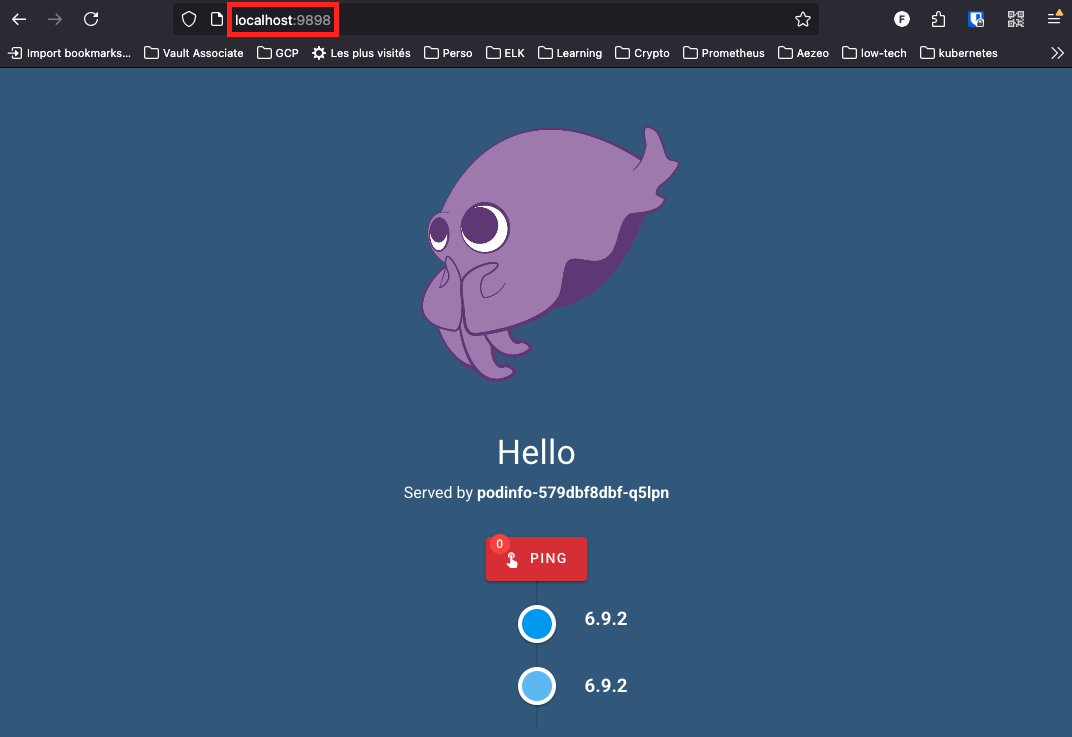
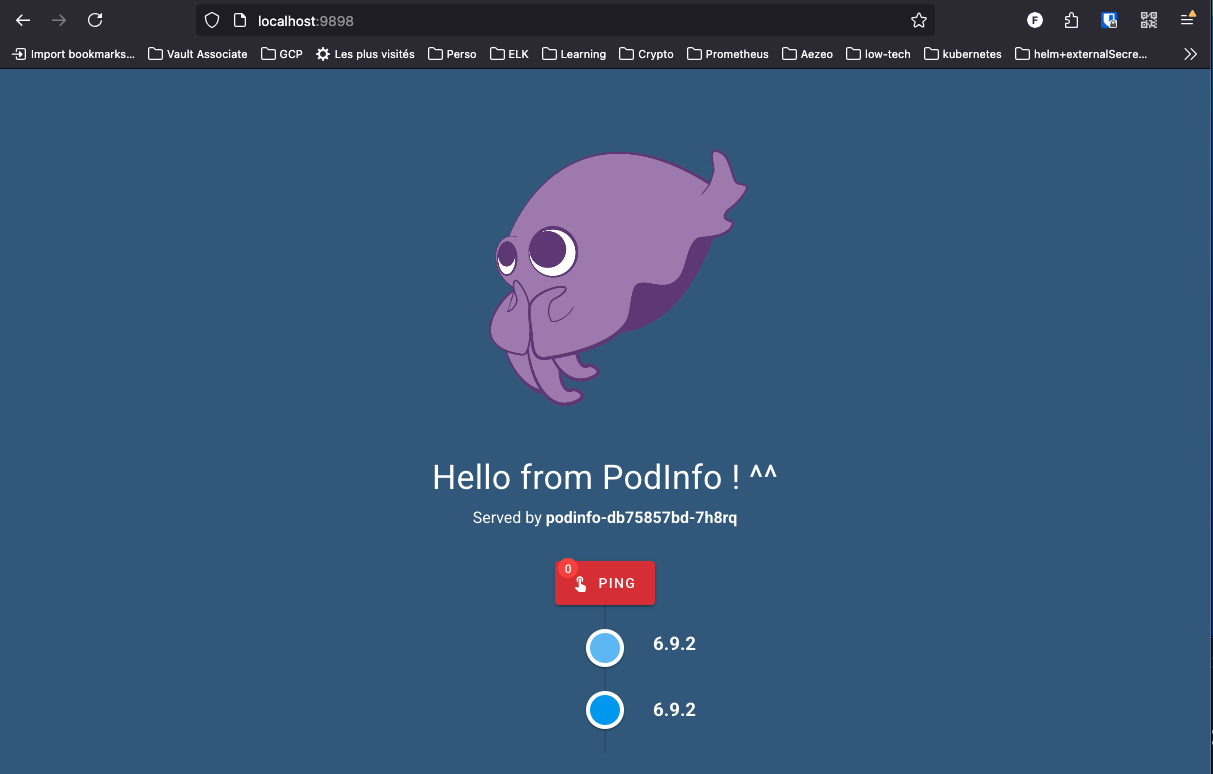
New updates.

diff --git a/docs/FluxCD/FluxCD_demonstration_par_l_exemple.md b/docs/FluxCD/FluxCD_demonstration_par_l_exemple.md
@@ -1937,11 +1937,13 @@ Pour connaître les valeurs par défaut de l'application :
     [https://artifacthub.io/packages/helm/podinfo/podinfo?modal=values](https://artifacthub.io/packages/helm/podinfo/podinfo?modal=values)
 
 
-Par exemple, si nous souhaitons afficher __'Hello'__ comme message d'accueil, nous devrons surcharger le paramètre 'ui.message' comme suit :
+Par exemple, souhaitons apporter un peu plus de résilience à l'application en exécutant 2 ReplicaSets plutôt qu'un. Nous souhaitons également gérer finement les ressources de l'application, et changer le message d'accueil de la UI.
 
 !!! Note
     Nous écrirons les '*values*' que nous souhaitons surcharger aux '*default values*' dans une *ConfigMap* Kubernetes.
 
+!!! Doc
+    [https://github.com/stefanprodan/podinfo?tab=readme-ov-file#continuous-delivery](https://github.com/stefanprodan/podinfo?tab=readme-ov-file#continuous-delivery)
 
 === "code"
     ```sh
@@ -1951,8 +1953,15 @@ Par exemple, si nous souhaitons afficher __'Hello'__ comme message d'accueil, no
 
     # Création d'un fichier temporaire 'values.yaml' contenant les paramètres à surcharger :
     cat << EOF > values.yaml
+    replicaCount: 2
+    resources:
+      limits:
+        memory: 256Mi
+      requests:
+        cpu: 100m
+        memory: 64Mi
     ui:
-      message: "Hello"
+      message: "Hello from PodInfo ! ^^"  
     EOF
 
     # Création de la ConfigMap à partir du fichier 'values.yaml' :
@@ -1966,18 +1975,20 @@ Par exemple, si nous souhaitons afficher __'Hello'__ comme message d'accueil, no
     /bin/rm values.yaml
     ```
 
-=== "ConfigMap 'podinfo-values'"
+=== "podinfo-values.yaml"
     ```sh
     apiVersion: v1
     data:
-      values.yaml: |
+      values.yaml: |+
+        replicaCount: 2
+        resources:
+          limits:
+            memory: 256Mi
+          requests:
+            cpu: 100m
+            memory: 64Mi
         ui:
-          message: "Hello"
-    kind: ConfigMap
-    metadata:
-      creationTimestamp: null
-      name: podinfo-values
-      namespace: podinfo
+          message: "Hello from PodInfo ! ^^"
     ```
 
 Définissons maintenant la HelmRelease :
@@ -1997,7 +2008,7 @@ Définissons maintenant la HelmRelease :
       --source=HelmRepository/podinfo.podinfo \
       --chart=podinfo \
       --values-from=ConfigMap/podinfo-values \
-      --interval=1m0s \
+      --interval=10m \
       --export > podinfo/podinfo.helmrelease.yaml
 
     git add .
@@ -2024,7 +2035,7 @@ Définissons maintenant la HelmRelease :
             kind: HelmRepository
             name: podinfo
             namespace: podinfo
-      interval: 1m0s
+      interval: 10m
       valuesFrom:
       - kind: ConfigMap
         name: podinfo-values
@@ -2071,7 +2082,7 @@ Utilisons la redirection de ports pour accéder à l'application avec un navigat
     ```
 
 ![podinfo](./images/podinfo.png)
-Nous voyons bien notre message d'accueil personnalisé : 'Hello'.
+Nous voyons bien notre message d'accueil personnalisé : '**Hello PodInfo! ^^**'.
 
 
 
@@ -2079,7 +2090,7 @@ Nous voyons bien notre message d'accueil personnalisé : 'Hello'.
 
 ## Notifications Discord
 
-Nous avons configuré FluxCD pour gérer automatiquement la mise à jour nos applications _*'foo'*_ et _*'bar'*_ dont les manifests sont hébergés dans un dépôt GitHub, ainsi que la mise à joàur de l'application packagée '*podinfo*' hébergée sur un dépôt Helm externe.
+Nous avons configuré FluxCD pour gérer automatiquement la mise à jour de nos applications _*'foo'*_ et _*'bar'*_ dont les manifests sont hébergés dans un dépôt GitHub, ainsi que la mise à jour de l'application packagée '*podinfo*' hébergée sur un dépôt Helm externe.
 
 Nous aimerions maintenant être alertés lorsqu'un changement affecte nos applications. Plutôt qu'une messagerie mail classique, nous privilégions une messagerie instantanée. Notre choix s'est porté sur la plateforme **'Discord'** car elle permet de configurer des _*'webhooks'*_ sur des _*'rooms'*_ sans pour autant devoir payer un abonnement, comme ce serait le cas avec **Slack**.
 
@@ -2093,14 +2104,14 @@ https://discord.com/api/download?platform=osx
 ```
 
 
-### Création d'un _*'serveur'*_ et d'un _*'channel'*_ pour chaque application
+### Création d'un _*'serveur'*_ et d'une _*'room'*_ pour chaque application
 
 
 #### Création d'un serveur Discord
 
-Discord permet la création de _*'serveurs'*_ que nous pouvons restreindre pour notre usage personnel et qui hébergeront les _*'salons'*_ que nous dédierons à l'envoi de notifications de FluxCD concernant nos applications.
+Discord permet la création de _*'serveurs'*_ que nous pouvons restreindre pour notre usage personnel et qui hébergeront les _*'salons'*_ (ou '*rooms*') que nous dédierons à l'envoi de notifications de FluxCD concernant nos applications.
 
-Une fois le client Discord démarré, cliquons sur le **'+'** situé dasn la colonne de gauche. Nous répondrons ensuite aux différentes questions et donnerons à notre serveur le nom de notre cluster Kubernetes : **k8s-kind**.
+Une fois le client Discord démarré, cliquons sur le **'+'** situé dans la colonne de gauche. Nous répondrons ensuite aux différentes questions et donnerons à notre serveur le nom de notre cluster Kubernetes : **k8s-kind**.
 
 ![Add a Discord server #1](./images/discord_add_server_1.png)
 
@@ -2112,7 +2123,7 @@ Une fois le client Discord démarré, cliquons sur le **'+'** situé dasn la col
 
 #### Création d'un salon dans notre serveur Discord
 
-Nous souhaitons créer un salon pour chacune de nos applications. La procédure étant la même pour tous les salons, nous montrerons la création du salon pour l'application _*'foo'*_. Vous devrez faire la même chose pour l'application _*'bar'*_.
+Nous souhaitons créer un salon pour chacune de nos applications. La procédure étant la même pour tous les salons, nous montrerons la création du salon pour l'application _*'foo'*_. Vous devrez faire la même chose pour les autres applications.
 
 Sélectionnez le serveur _*'k8s-kind'*_ dans la colonne de gauche, puis dans la partie 'salons textuels', cliquez sur le __'+'__ :
 
@@ -2515,9 +2526,76 @@ Pour constater ce changement sur notre copie locale, nous devons la mettre à jo
 L'image utilisée est désormais passée à la version 2.10.
 
 
+Testons également les notifications pour une application packagée avec Helm : '*podinfo*'. Commençons par récupérer la version du Helm Chart déployé par la Helm Release :
+
+=== "code"
+    ```sh
+    kubectl get helmrelease podinfo -o jsonpath='{.status.history[].chartVersion}'
+    ```
+
+=== "output"
+    ```sh
+    6.9.2
+    ```
+Nous allons modifier la définition de notre HelmRelease pour qu'elle soit déployée à partir d'un Helm Chart d'une version majeure inférieure à 6 :
+
+=== "code"
+    ```sh
+    export LOCAL_GITHUB_REPOS="${HOME}/code/github"
+    
+    cd ${LOCAL_GITHUB_REPOS}/k8s-kind-apps
+
+    flux create helmrelease podinfo \
+      --namespace=podinfo \
+      --source=HelmRepository/podinfo.podinfo \
+      --chart=podinfo \
+      --chart-version="<6.0.0" \
+      --values-from=ConfigMap/podinfo-values \
+      --interval=10m \
+      --export > podinfo/podinfo.helmrelease.yaml
+
+    git add .
+    git commit -m 'Modified podinfo HelmRelease to use a Chart version < 6.'
+    git push
+
+    flux reconcile kustomization flux-system --with-source
+    ```
+
+=== "podinfo HelmRelease"
+    ```sh
+    ---
+    apiVersion: helm.toolkit.fluxcd.io/v2
+    kind: HelmRelease
+    metadata:
+      name: podinfo
+      namespace: podinfo
+    spec:
+      chart:
+        spec:
+          chart: podinfo
+          reconcileStrategy: ChartVersion
+          sourceRef:
+            kind: HelmRepository
+            name: podinfo
+            namespace: podinfo
+      interval: 1m0s
+      valuesFrom:
+      - kind: ConfigMap
+        name: podinfo-values
+    ```
+
+Poussons nos modifications sur notre dépôt GitHub et forçons la réconciliation Flux :
+
+```sh
+git add .
+git commit -m 'Defined podinfo HelmRelease with custom values as a ConfigMap.'
+git push
+
+flux reconcile kustomization flux-system --with-source
+```
+
 
 XXXXX
-
 
 
 
